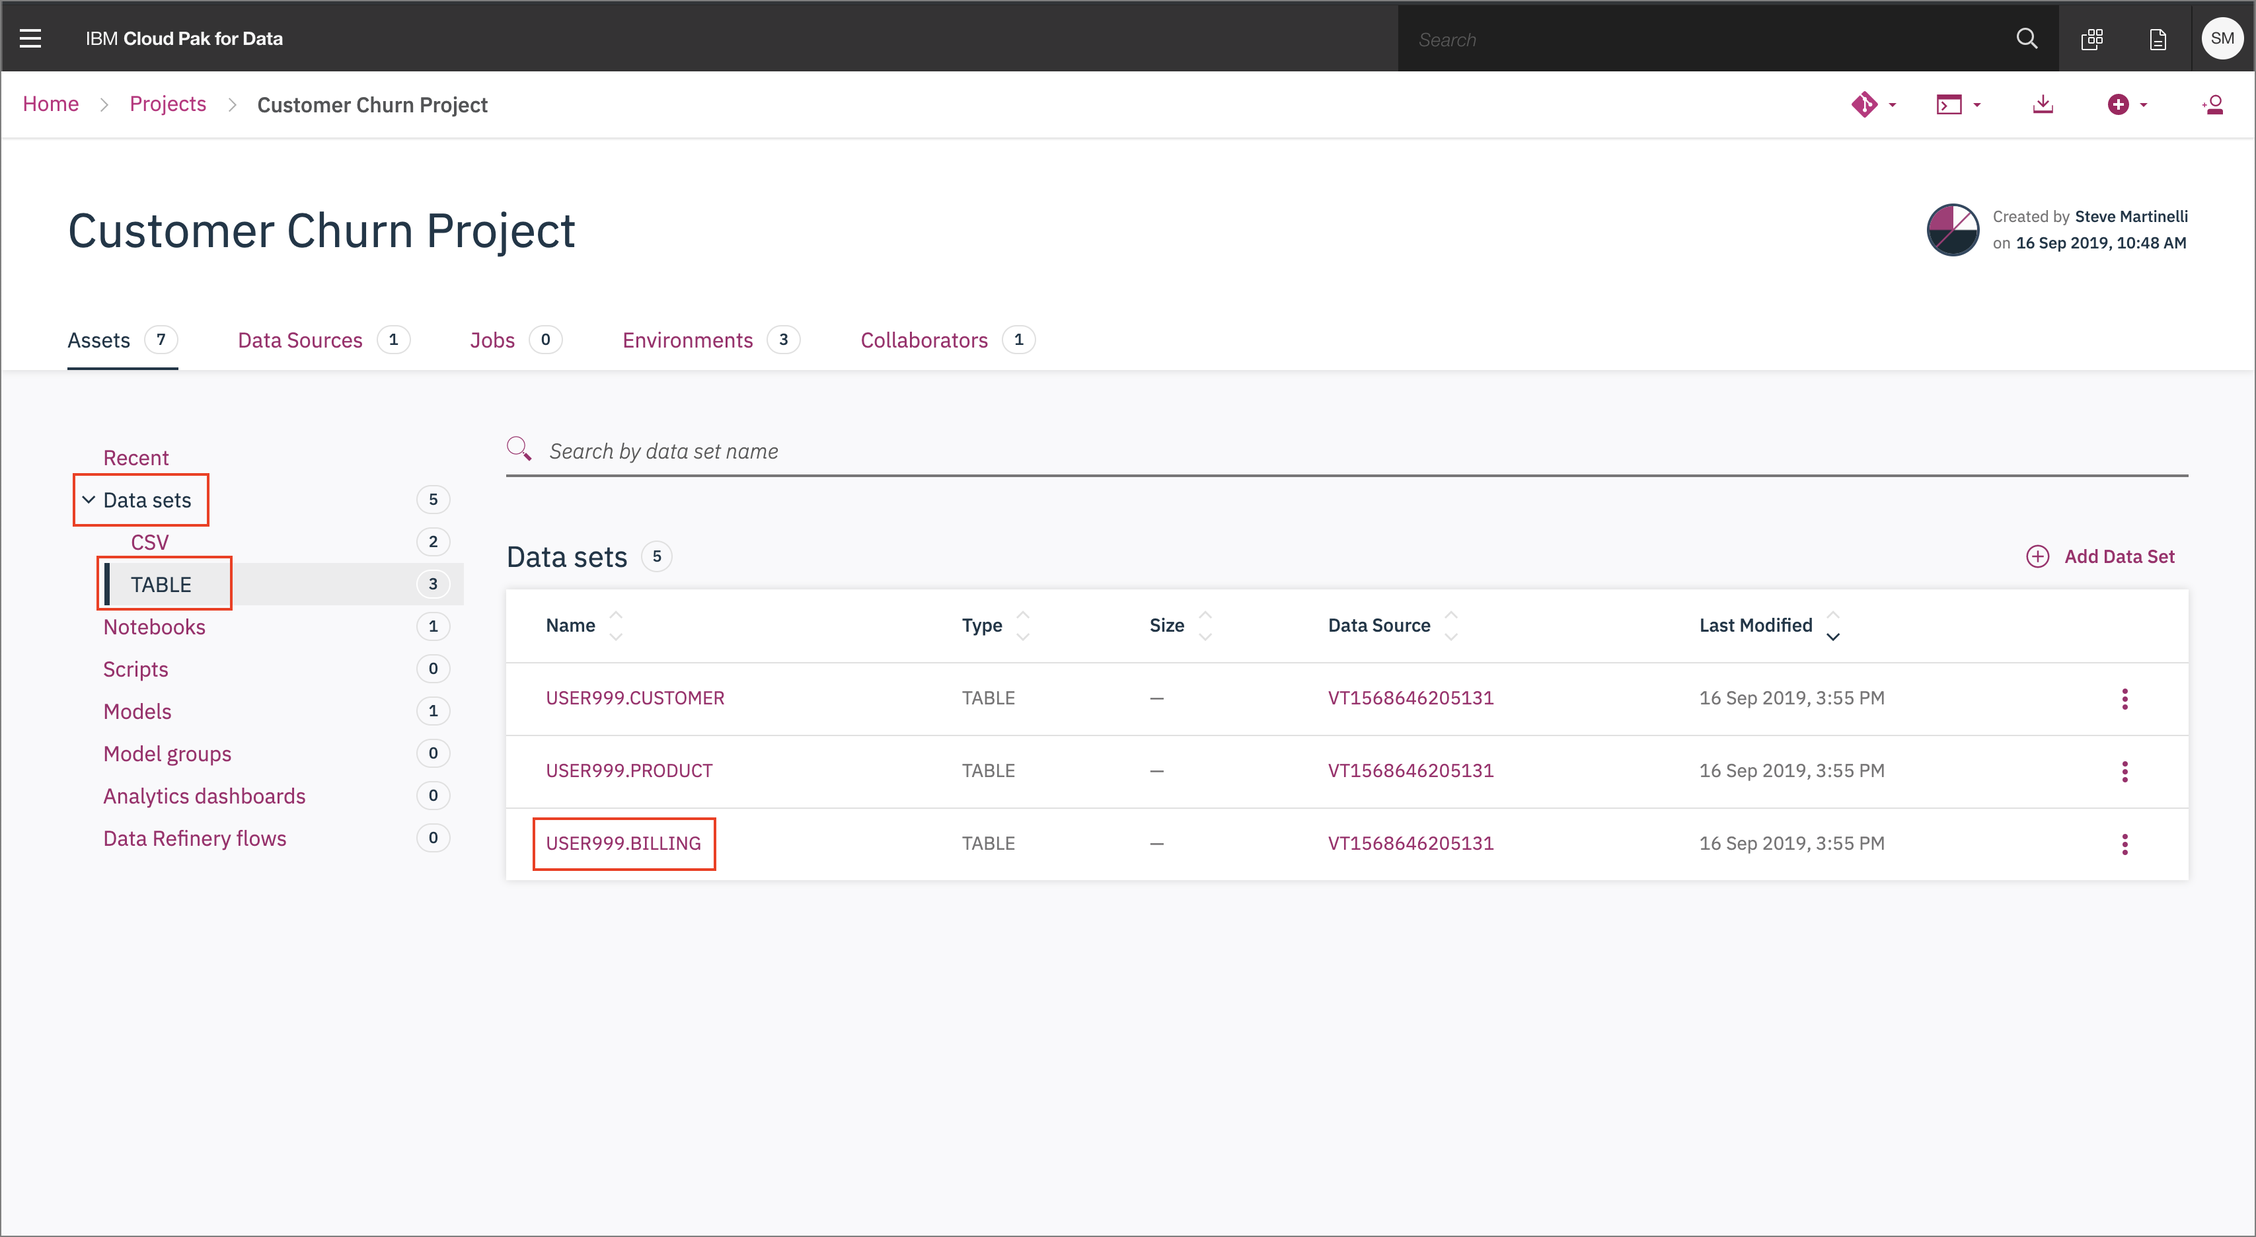
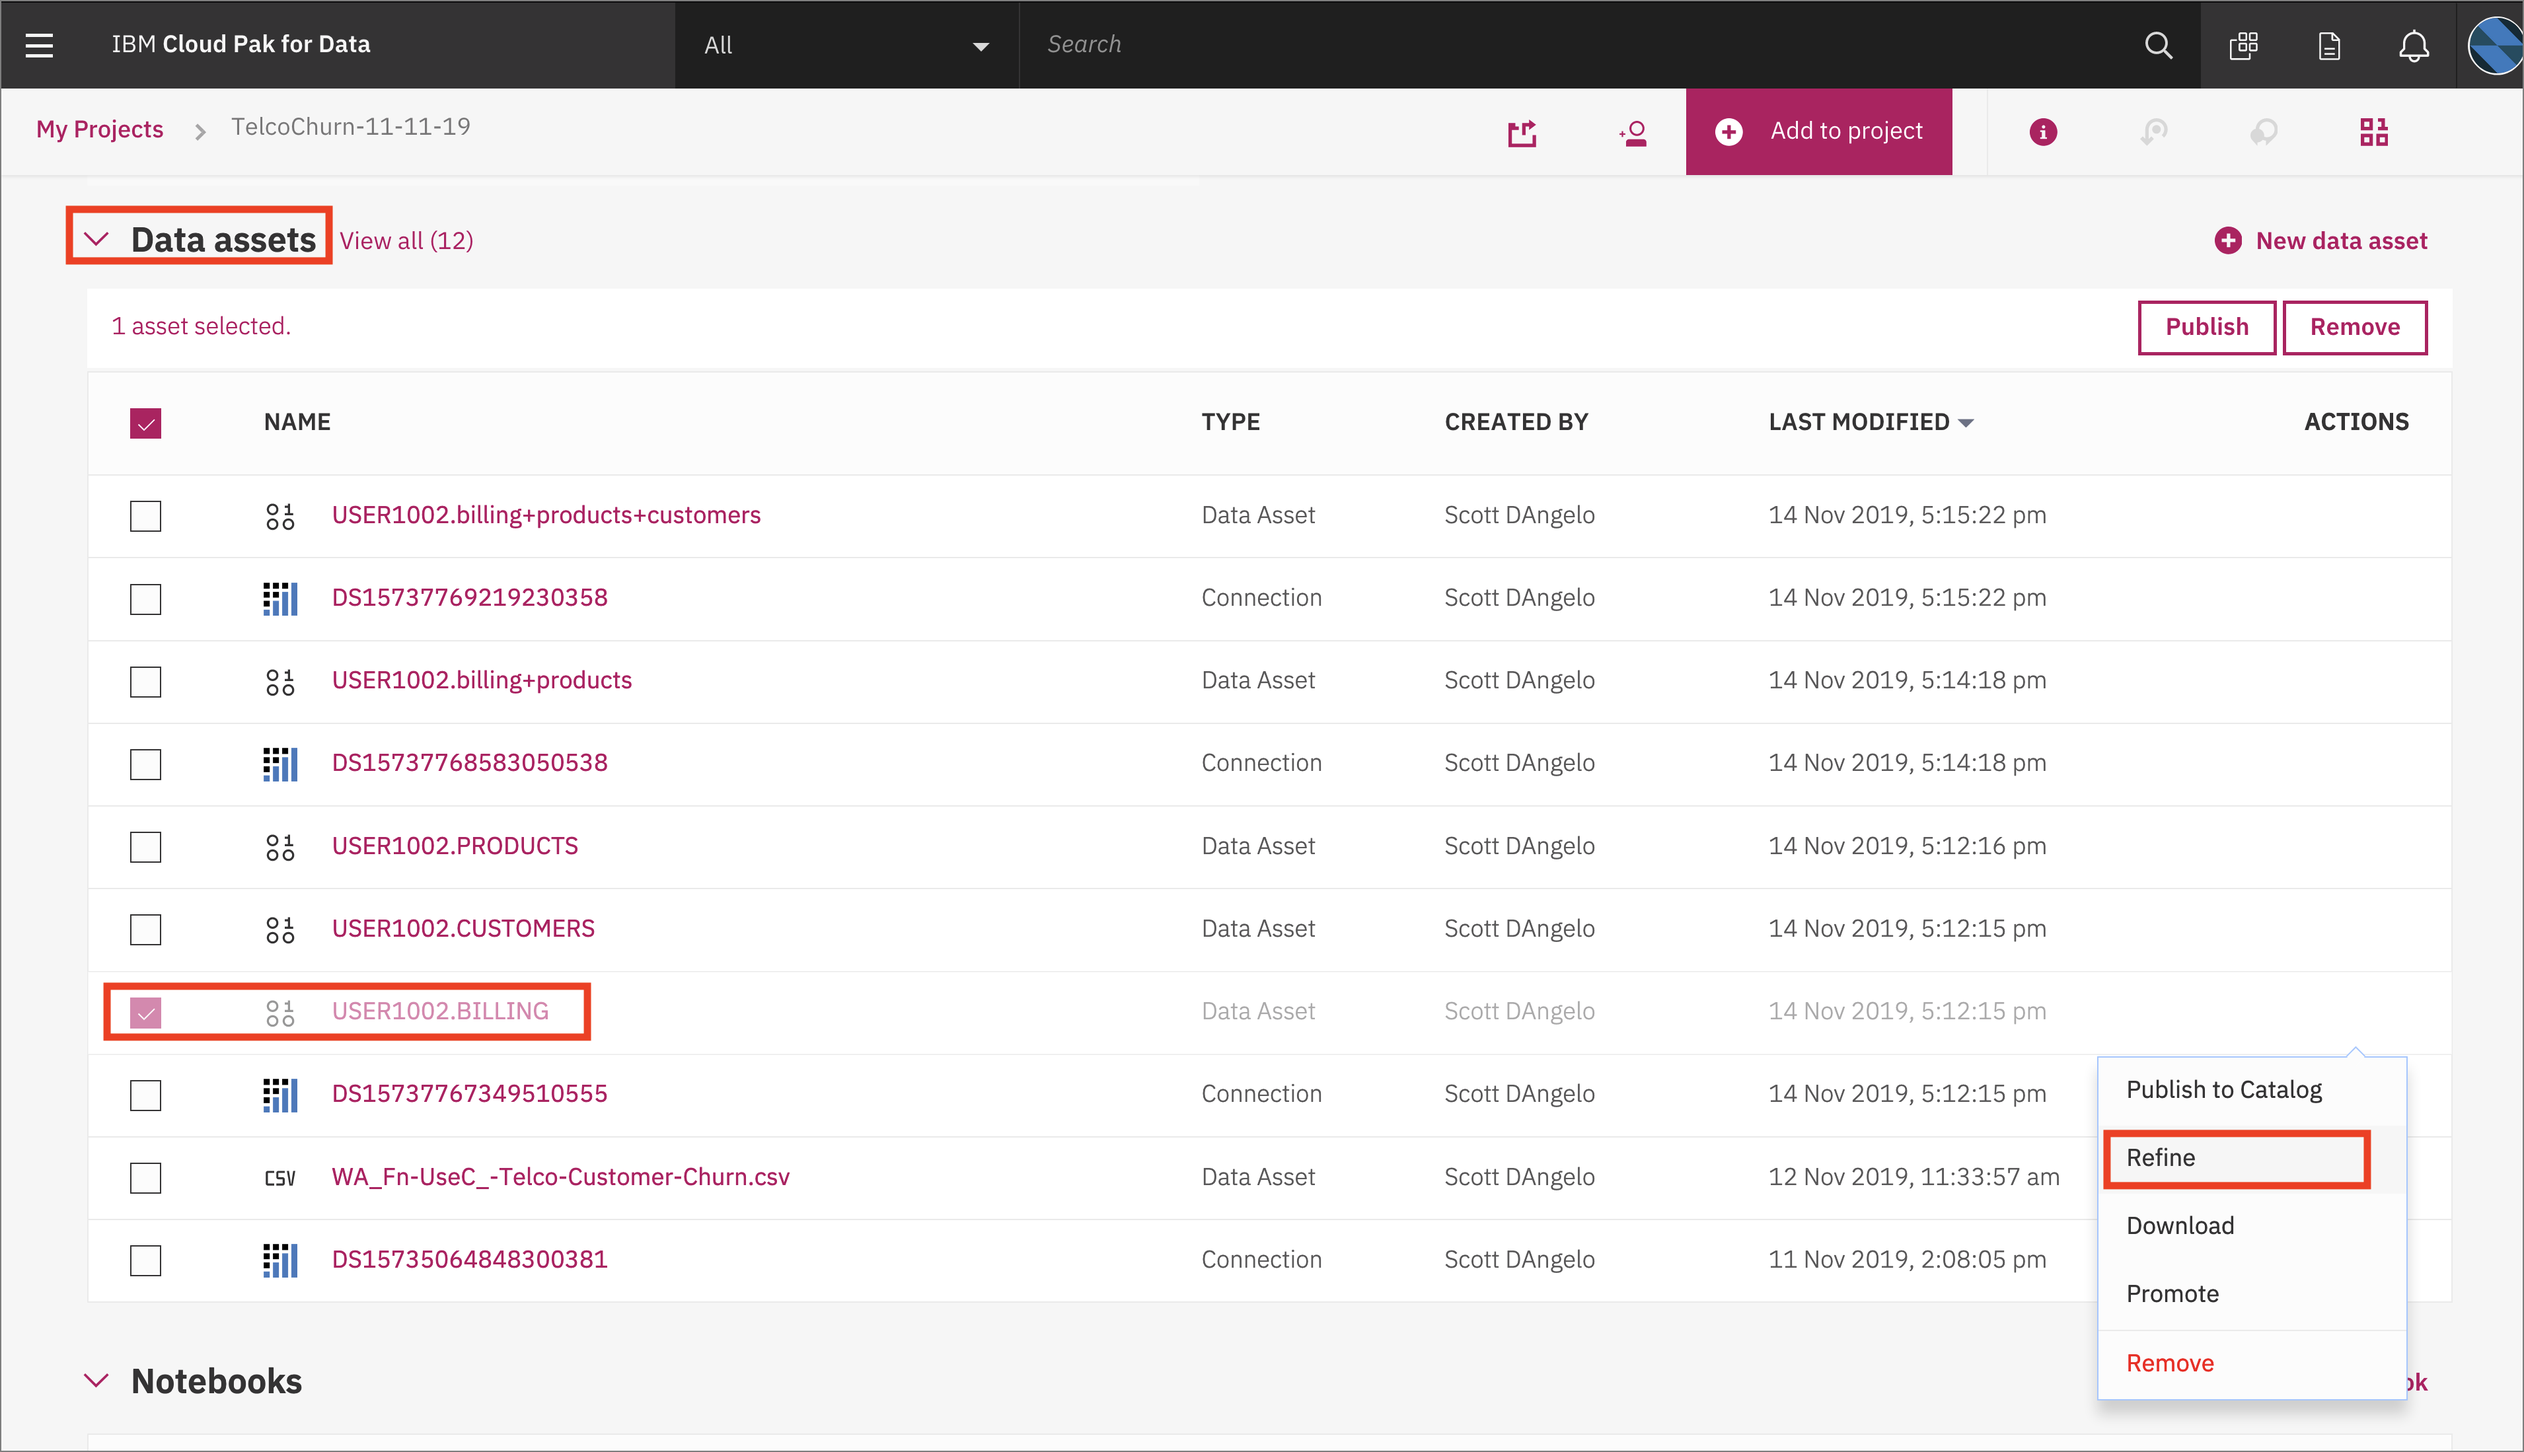
Updates to Data Refinery docs and images for CPD 2.5

diff --git a/workshop/exercise-1/README.md b/workshop/exercise-1/README.md
@@ -52,13 +52,15 @@ Before we build our model we're going to take a quick detour to the *Data Refine
 
 ### Load the *BILLING* data table into data refinery
 
-From the *Project* home, click on *Data sets*, *TABLE*, and choose the *USER123.BILLING* table.
+From the *Project* home, under the *Assets* tab, click on the *Data assets* arrow to toggle it and open up the list of data assets. Click the box next to *USERxxxx.BILLING* to check it, and click the 3 dots to the right, and then *Refine* :
 
 ![Launch the BILLING table](../.gitbook/assets/images/dr/dr-1-launch-billing.png)
 
 Data Refinery should launch and open the data like the image below:
 
 ![Data Refinery view of the BILLING table](../.gitbook/assets/images/dr/dr-2-view-billing.png)
+
+Click the `X` by the *Details* button to close it.
 
 The *Operation* button can perform many tasks related to data cleansing such as: substituting values, removing and renaming columns, converting column types, etc.
 
